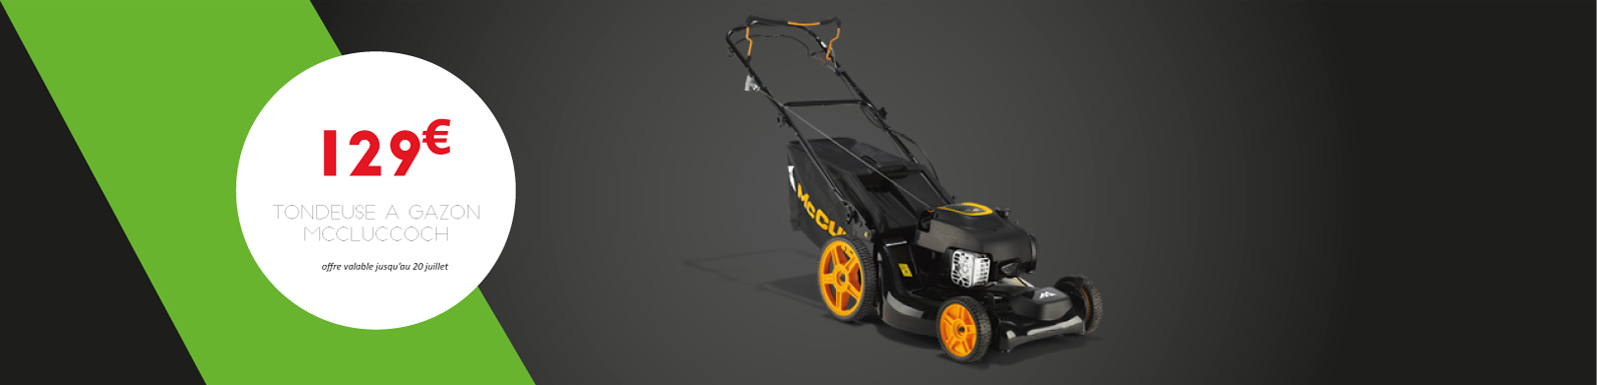
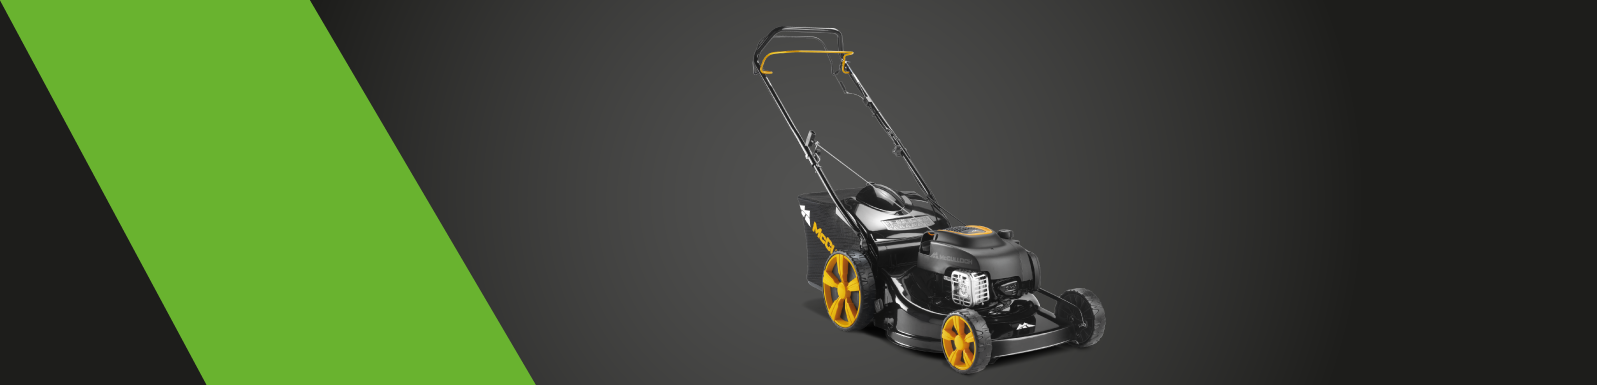
Ajout cercle+texte produit en une

Changed region(s): [[0.1227, 0.1247, 0.3375, 0.8727], [0.4909, 0.3117, 0.7057, 0.9662], [0.4602, 0.0312, 0.5523, 0.3117]]

diff --git a/themes/TSDC/default/views/home/index.blade.php b/themes/TSDC/default/views/home/index.blade.php
@@ -17,6 +17,8 @@
     <br/>
     <div class="row" style="width:100%;">
         <div class="col-md-11 col-centered produitEnUne col-md-offset-1" style="background-size:cover; min-height:400px;">
+            <div class="circle" style="padding-top:35px; margin-left:230px; margin-top:70px; border-radius:140px; width:280px; height:280px; float:left; background-color:white;"><h3 style="font-size:40pt; color:#E41F21; font-family: 'Big John'; padding-top:20px;">129e</h3><h3 style="color:black; font-size:14pt; font-family: 'Slim Joe';">Tondeuse a gazon Mccluccoh</h3><h3 style="color:black; font-size:7pt; font-family: 'Arial';"><i>Offre valable jusqu'au 3 juillet</i></h3>
+            </div>
             <nav aria-label="navigation">
                 <div class="pager" style="position:absolute; bottom:0; padding-bottom:150px; padding-right:50px; right:0;">
                     <a class="btn btn-primary" style="background-color:#68B42F; border-color:white;" href="#" role="button">Découvrir</a>
